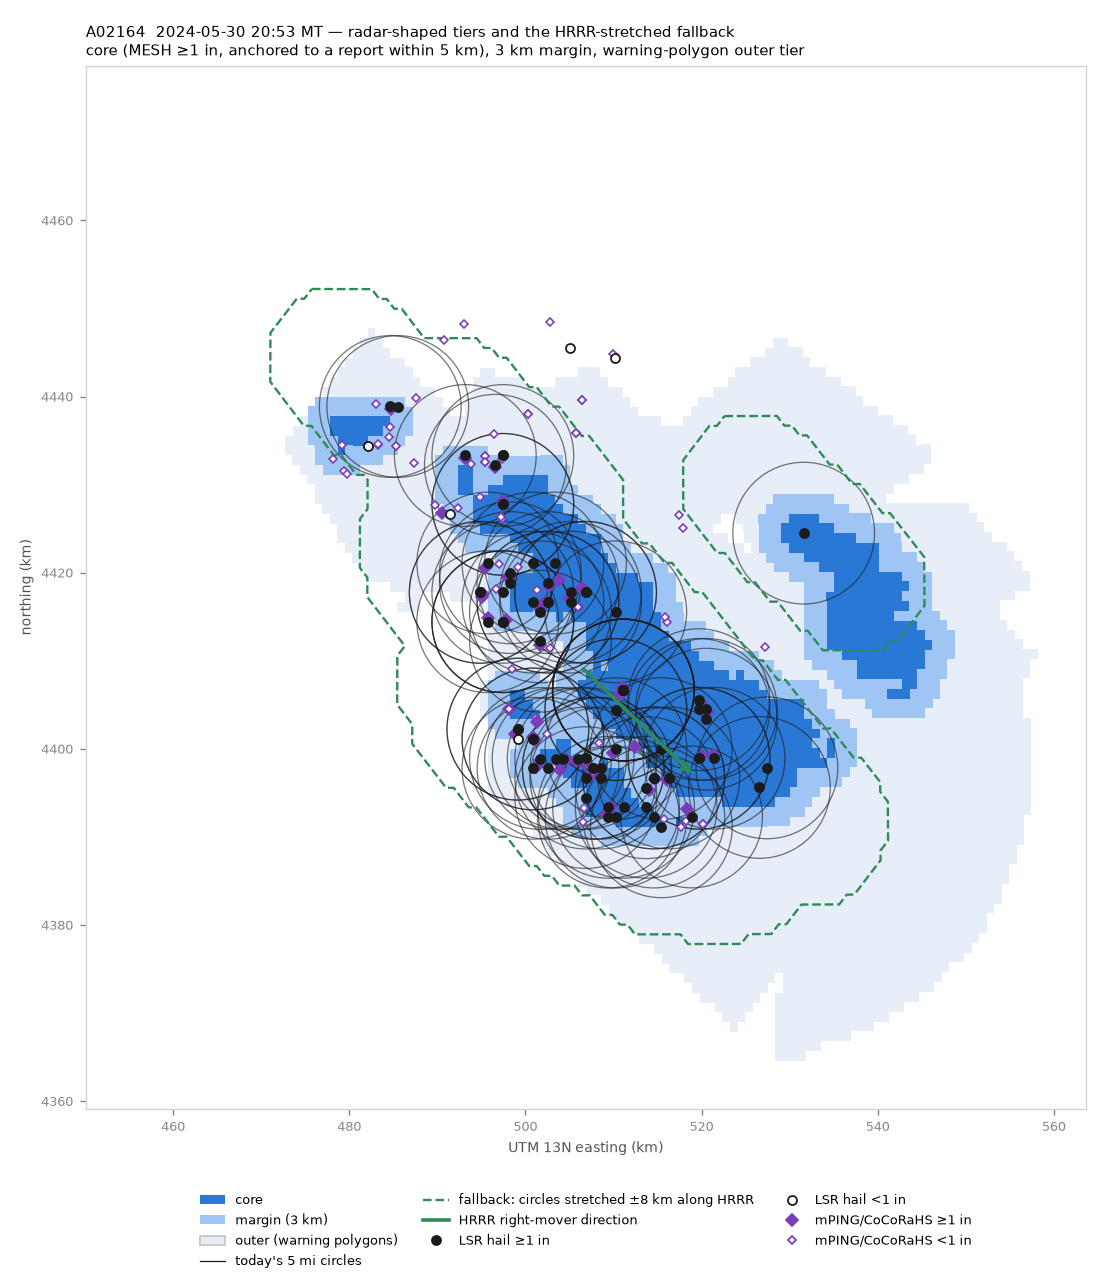
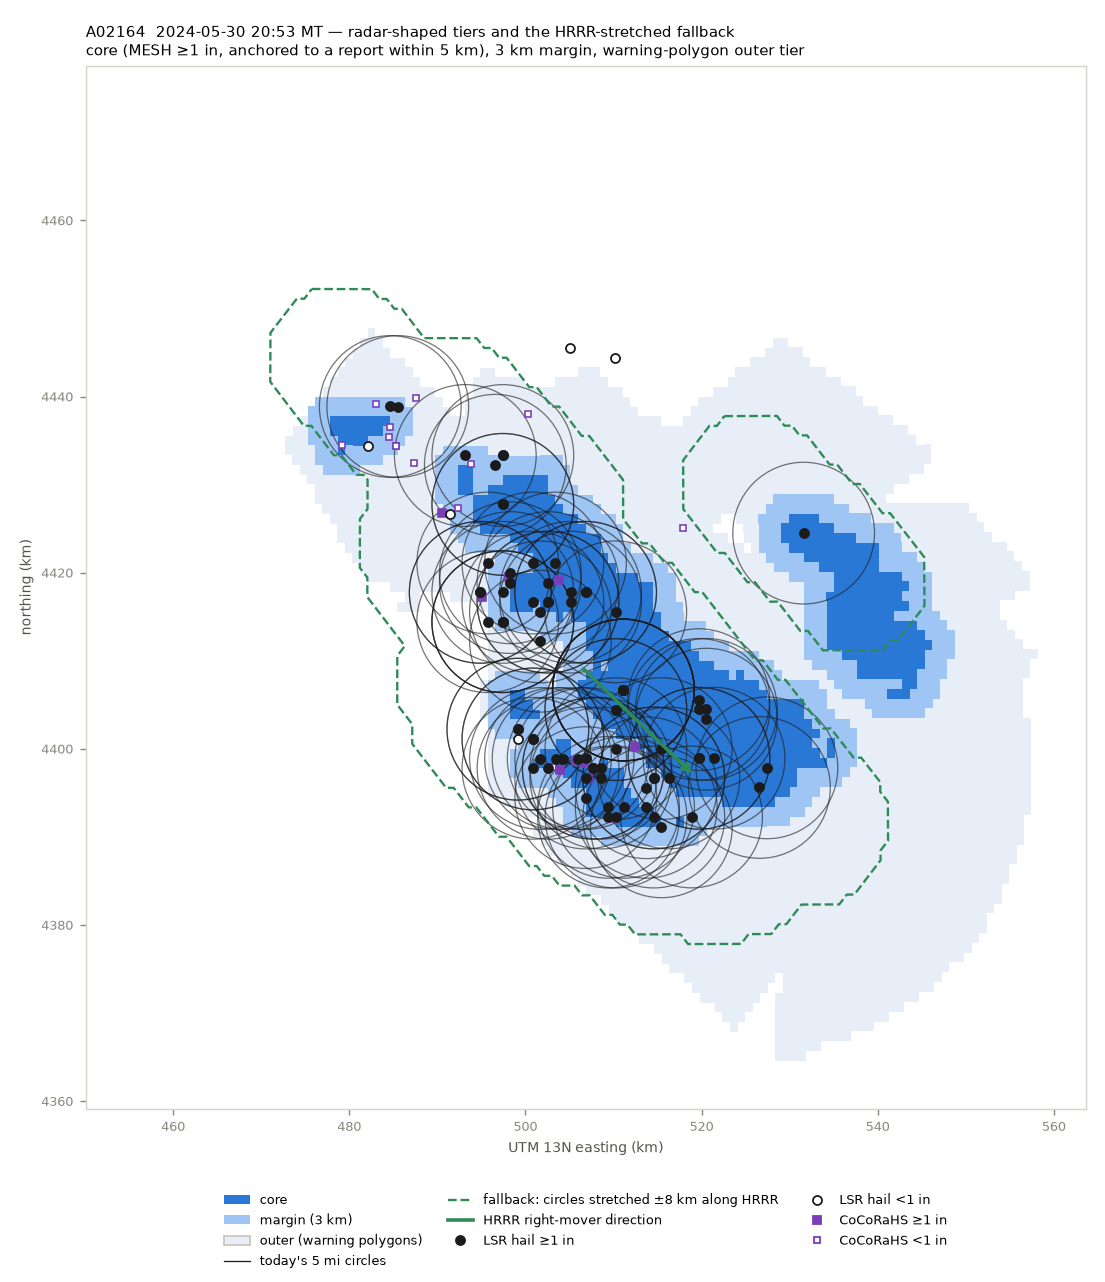
Regenerate the analysis maps without mPING; note it is internal validation only
The eight maps in docs/analysis/weather-sources-2026-10/ and
radar-areas-2026-10/ now show LSR and CoCoRaHS points only. mPING is
research-licensed (item 215), so it stays an internal validation input:
each summary says so, the two READMEs and item 215 no longer say the maps
plot mPING, and the map code skips it. No numbers changed
(partb_numbers.json is byte-identical).

diff --git a/docs/analysis/weather-sources-2026-10/summarize_partb.py b/docs/analysis/weather-sources-2026-10/summarize_partb.py
@@ -121,6 +121,7 @@ for k in ["A01973", "A02418", "A02164", "A02156", "A02215"]:
         if r["type"] == "HAIL": ax.plot(X, Y, "o", ms=5.5, mfc="#1b1b1b" if r["act"] else "white", mec="#1b1b1b", mew=1, zorder=6)
         else: ax.plot(X, Y, "^", ms=6, mfc="#1b1b1b" if r["act"] else "white", mec="#1b1b1b", mew=1, zorder=6)
     for p in G[k]["points"]:
+        if p["src"] != "cocorahs": continue      # mPING is research-licensed (item 215): validation only, never mapped
         X, Y = tr.transform(p["lon"], p["lat"]); big = (p["size_in"] or 0) >= 1.0
         mk = "s" if p["src"] == "cocorahs" else "D"
         ax.plot(X / 1000, Y / 1000, mk, ms=5 if big else 3.6, mfc="#7a3db8" if big else "white", mec="#7a3db8", mew=1, zorder=5)
@@ -141,7 +142,7 @@ for k in ["A01973", "A02418", "A02164", "A02156", "A02215"]:
     ax.set_title(f"{k}  {d['start_local'][:16]} to {d['end_local'][11:16]} MT\n"
                  f"MESH ≥1 in: {w['mesh100_km2']:.0f} km² — in warnings {100 * w['mesh100_in_poly_km2'] / max(w['mesh100_km2'], 1e-9):.0f}%, in circles {100 * w['mesh100_in_circle_km2'] / max(w['mesh100_km2'], 1e-9):.0f}%   "
                  f"warnings {w['n_polygons']} (hail tag max {w['max_hailtag_in']} in)\n"
-                 f"CoCoRaHS {g['n_cocorahs']}, mPING {g['n_mping']} points   storm → {v['storm_toward']:.0f}°, HRRR 500 mb error {e.get('500 mb', 'n/a')}°, Bunkers error {e.get('Bunkers right (approx)', 'n/a')}°",
+                 f"CoCoRaHS {g['n_cocorahs']} points   storm → {v['storm_toward']:.0f}°, HRRR 500 mb error {e.get('500 mb', 'n/a')}°, Bunkers error {e.get('Bunkers right (approx)', 'n/a')}°",
                  fontsize=8.2, loc="left", color="#1b1b1b")
     h = [Patch(fc="#b7d3f6", label="MESH 0.75–1.00 in"), Patch(fc="#6da7ec", label="1.00–1.50"), Patch(fc="#2a78d6", label="1.50–2.00"), Patch(fc="#104281", label="> 2.00"),
          Line2D([], [], color=POLY_C, lw=1, label="SVR warning"), Line2D([], [], color=POLY_C, lw=1, ls=(0, (2, 2)), label="TOR warning"),
@@ -151,8 +152,6 @@ for k in ["A01973", "A02418", "A02164", "A02156", "A02215"]:
          Line2D([], [], marker="^", ls="", mfc="#1b1b1b", mec="#1b1b1b", ms=5, label="LSR wind (filled = actionable)"),
          Line2D([], [], marker="s", ls="", mfc="#7a3db8", mec="#7a3db8", ms=5, label="CoCoRaHS ≥1 in"),
          Line2D([], [], marker="s", ls="", mfc="white", mec="#7a3db8", ms=4, label="CoCoRaHS <1 in"),
-         Line2D([], [], marker="D", ls="", mfc="#7a3db8", mec="#7a3db8", ms=5, label="mPING ≥1 in"),
-         Line2D([], [], marker="D", ls="", mfc="white", mec="#7a3db8", ms=4, label="mPING <1 in"),
          Line2D([], [], color="#1b1b1b", lw=2, label="storm motion (fit)"), Line2D([], [], color="#2e8b57", lw=2, ls="--", label="HRRR 500 mb"),
          Line2D([], [], color="#2e8b57", lw=2, ls=":", label="Bunkers right (approx)")]
     ax.legend(handles=h, loc="upper center", bbox_to_anchor=(0.5, -0.07), ncol=4, fontsize=7, frameon=False)

diff --git a/docs/analysis/radar-areas-2026-10/maps.py b/docs/analysis/radar-areas-2026-10/maps.py
@@ -49,8 +49,9 @@ for k in ("A02164", "A02418", "A02156"):
     for r in act: ax.add_patch(Circle((r["x"] / 1000, r["y"] / 1000), C.R_M / 1000, fill=False, ec="#1b1b1b", lw=0.7, alpha=0.6, zorder=2))
     g = json.load(open(os.path.join(C.HERE, "partb", "ground", f"{k}.json")))["points"]
     for p in g:
+        if p["src"] != "cocorahs": continue      # mPING is research-licensed (item 215): validation only, never mapped
         X, Y = tr.transform(p["lon"], p["lat"]); big = (p["size_in"] or 0) >= 1
-        ax.plot(X / 1000, Y / 1000, "D", ms=4.5 if big else 3.2, mfc="#7a3db8" if big else "white", mec="#7a3db8", mew=0.9, zorder=5)
+        ax.plot(X / 1000, Y / 1000, "s", ms=4.5 if big else 3.2, mfc="#7a3db8" if big else "white", mec="#7a3db8", mew=0.9, zorder=5)
     for r in c:
         if r["type"] == "HAIL": ax.plot(r["x"] / 1000, r["y"] / 1000, "o", ms=5, mfc="#1b1b1b" if r["act"] else "white", mec="#1b1b1b", zorder=6)
     cx, cy = np.mean(xs), np.mean(ys)
@@ -66,6 +67,6 @@ for k in ("A02164", "A02418", "A02156"):
          Line2D([], [], color="#1b1b1b", lw=0.7, label="today's 5 mi circles"), Line2D([], [], color="#2e8b57", lw=1.3, ls="--", label="fallback: circles stretched ±8 km along HRRR"),
          Line2D([], [], color="#2e8b57", lw=2, label="HRRR right-mover direction"),
          Line2D([], [], marker="o", ls="", mfc="#1b1b1b", mec="#1b1b1b", ms=5, label="LSR hail ≥1 in"), Line2D([], [], marker="o", ls="", mfc="white", mec="#1b1b1b", ms=5, label="LSR hail <1 in"),
-         Line2D([], [], marker="D", ls="", mfc="#7a3db8", mec="#7a3db8", ms=4.5, label="mPING/CoCoRaHS ≥1 in"), Line2D([], [], marker="D", ls="", mfc="white", mec="#7a3db8", ms=3.5, label="mPING/CoCoRaHS <1 in")]
+         Line2D([], [], marker="s", ls="", mfc="#7a3db8", mec="#7a3db8", ms=4.5, label="CoCoRaHS ≥1 in"), Line2D([], [], marker="s", ls="", mfc="white", mec="#7a3db8", ms=3.5, label="CoCoRaHS <1 in")]
     ax.legend(handles=h, loc="upper center", bbox_to_anchor=(0.5, -0.07), ncol=3, fontsize=7, frameon=False)
     fig.tight_layout(); p = os.path.join(HERE, "maps", f"{k}.png"); fig.savefig(p, facecolor="white"); plt.close(fig); print("map", p)

diff --git a/docs/analysis/weather-sources-2026-10/summary.md b/docs/analysis/weather-sources-2026-10/summary.md
@@ -3,6 +3,9 @@
 Analysis only. Work is in `~/hail-analysis/weather_sources/`. `/tmp/hail-dev` is superseded and was
 not used. No git.
 
+**mPING was used for internal validation only, under its research licence (item 215).** It is not shown
+on any map, and its raw points are not in the repo. Every map shows LSR and CoCoRaHS points only.
+
 **Status:** Parts A, B and C are done (2026-10-14). mPING was completed once the key arrived; the core set was approved for Part B 2026-10-14. Part B covers warning polygons,
 CoCoRaHS and steering winds, plus mPING under its research licence. The maps for 3–5 storms belong
 to Part B.
@@ -176,11 +179,12 @@ centroid, rotated to true north. The sounding is the Denver launch nearest the s
 ### Maps
 
 `maps/A01973.png`, `A02418.png`, `A02164.png`, `A02156.png`, `A02215.png` each show:
-- MESH, today's circles, SVR/TOR polygons, LSR, CoCoRaHS and mPING points;
+- MESH, today's circles, SVR/TOR polygons, LSR and CoCoRaHS points (mPING is not mapped: item 215);
 - arrows for the fitted motion, HRRR 500 mb and the right-mover.
 
 **A02418** shows the warning problem: the polygons blanket the whole domain while the swaths are
-narrow, and mPING and CoCoRaHS cluster where the reports already are. **A02156** (eastern plains)
+narrow, and CoCoRaHS points cluster where the reports already are (mPING, used in the counts above, does
+the same). **A02156** (eastern plains)
 shows MESH finding a large swath with almost no ground reports of any kind.
 
 ## Part C: recommendation

diff --git a/docs/analysis/radar-areas-2026-10/summary.md b/docs/analysis/radar-areas-2026-10/summary.md
@@ -3,6 +3,9 @@
 Analysis only (2026-10-14). Work is in `~/hail-analysis/radar_areas/`. No database, no git, no matcher
 change.
 
+**mPING was used for internal validation only, under its research licence (item 215).** It is not shown
+on any map, and its raw points are not in the repo. Every map shows LSR and CoCoRaHS points only.
+
 **Inputs** are the same 60 MESH storms, hourly MESH windows and 30 km domains as `mesh60`:
 - warning polygons and HRRR winds from `weather_sources/partb/`;
 - independent ground points (mPING + CoCoRaHS) from `weather_sources/partb/ground/`.
@@ -146,7 +149,7 @@ radius to the same total area.
 - core / margin / outer fill (darker = more likely);
 - today's circles, and the HRRR-stretched fallback (± 8 km, dashed);
 - the HRRR right-mover arrow;
-- LSR, mPING and CoCoRaHS points.
+- LSR and CoCoRaHS points (mPING is not mapped: item 215).
 
 ## Unverified and limits
 

diff --git a/docs/parking-lot.md b/docs/parking-lot.md
@@ -3507,8 +3507,8 @@ revocations on both tables are not tested either. The two guards are the same pa
 mPING's API registration offers one licence type, "Research". The licence text was not read.
 This system's use would be commercial (RBI's outreach). The 2026-10-14 assessment used mPING as
 research only, and its raw points are kept out of git (`docs/analysis/weather-sources-2026-10/`
-README). The five maps in that folder do plot mPING points; including the images was decided
-2026-10-14.
+README). The maps in that folder and in `docs/analysis/radar-areas-2026-10/` were regenerated without
+mPING on 2026-10-14: mPING is used for internal validation only.
 
 The key is in `.env` as `MPING_API_KEY` and `MPING_USER_NAME`. `.env.example` does not list them.
 

diff --git a/docs/analysis/weather-sources-2026-10/README.md b/docs/analysis/weather-sources-2026-10/README.md
@@ -23,8 +23,8 @@ detail is in `notes/`.
 - **`samples/`**: raw downloads and extracts, about 1.7 GB. Most of it is HRRR wind fields; all of it
   can be fetched again.
 - **`partb/ground/`**: the per-storm CoCoRaHS and **mPING** points. mPING is licensed for research
-  only (item 215), so its raw points stay out of this public repo. The five maps *do* plot mPING
-  points; including the images was decided 2026-10-14.
+  only (item 215), so its raw points stay out of this public repo. mPING was used for internal
+  validation only; the maps show LSR and CoCoRaHS points only (regenerated without mPING 2026-10-14).
 - **Every `*.csv`** (the repo-wide rule).
 
 A full copy, including the above, is on the workstation in `~/hail-analysis/weather_sources/`.

diff --git a/docs/analysis/radar-areas-2026-10/README.md b/docs/analysis/radar-areas-2026-10/README.md
@@ -19,7 +19,7 @@ CoCoRaHS only) at 1, 3 and 5 km margins is in `validation_by_source.txt`.
 - `docs/analysis/storm-shape-mesh-2026-10` (mesh60) and `docs/analysis/weather-sources-2026-10`:
   warning polygons, HRRR winds and the ground points.
 - The raw mPING points are not in git (item 215). The checkpoints here hold only counts per tier and
-  source. The maps plot mPING points, as with the 2026-10-14 weather-sources maps.
+  source. mPING was used for internal validation only; the maps show LSR and CoCoRaHS points only.
 
 **Rerunning:** the scripts expect the `~/hail-analysis` layout (`mesh60/`, `storm_shape/`,
 `weather_sources/` next to this folder) and the environment in
